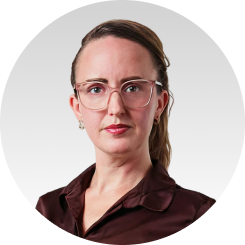
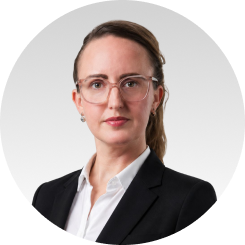
Update : New Employee

Changed region(s): [[0.1143, 0.0571, 0.8857, 1.0]]

diff --git a/components/sections/team/teamSection.tsx b/components/sections/team/teamSection.tsx
@@ -45,8 +45,13 @@ const teamData = [
   },
   {
     name: "Emily Mateer",
-    role: "Junior Architect",
+    role: "Senior Architect",
     image: "/team8.png",
+  },
+  {
+    name: "Arvellen Ang",
+    role: "Junior Architect",
+    image: "/team9.png",
   },
 ]
 